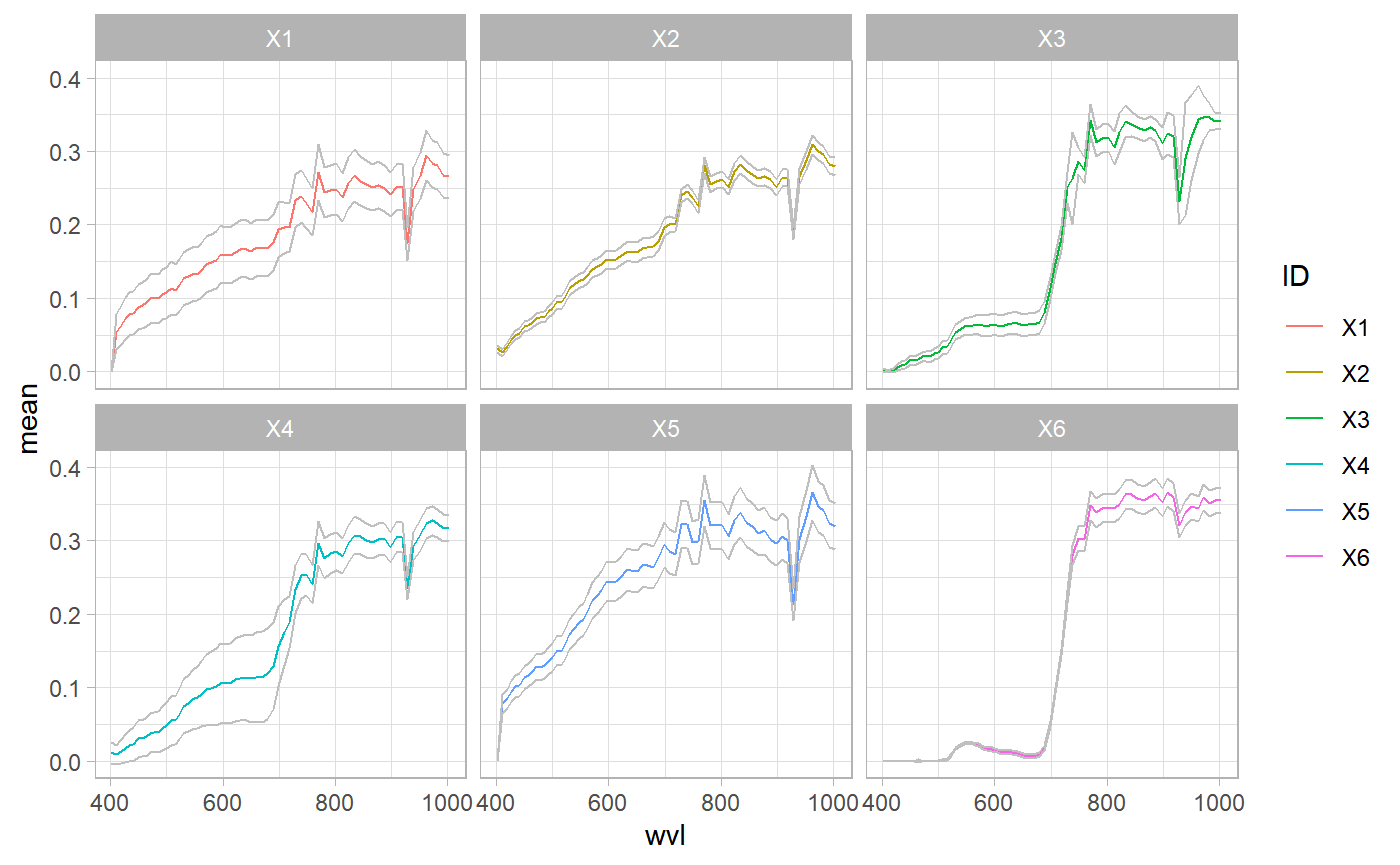
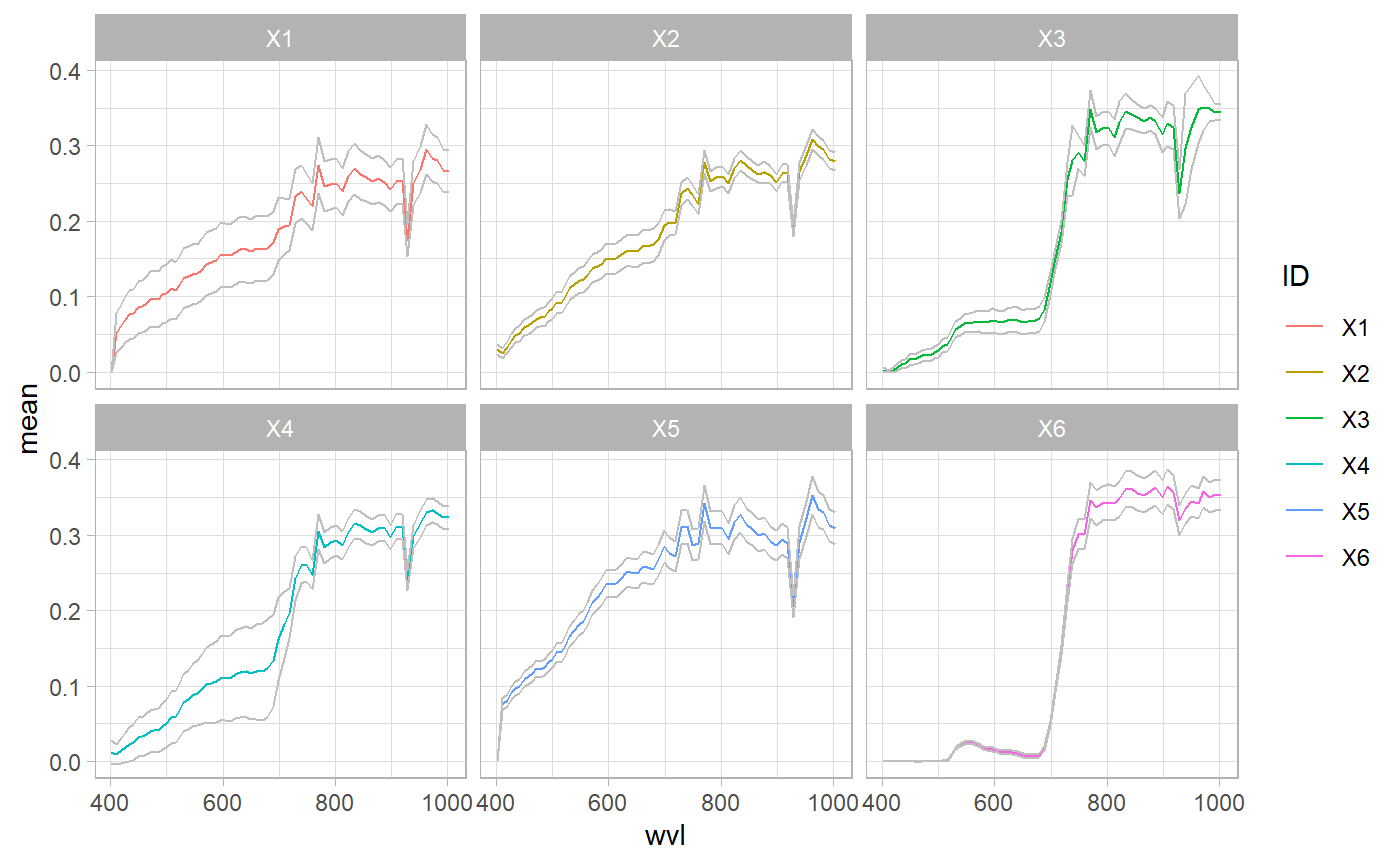
website updfate

diff --git a/docs/articles/Extracting-data-over-vector.html b/docs/articles/Extracting-data-over-vector.html
@@ -123,15 +123,15 @@
 <span class="co">#&gt;      wvl ID       mean  stdev</span>
 <span class="co">#&gt;    &lt;dbl&gt; &lt;chr&gt;   &lt;dbl&gt;  &lt;dbl&gt;</span>
 <span class="co">#&gt;  1  402. poly_1 0      0     </span>
-<span class="co">#&gt;  2  411. poly_1 0.0538 0.0236</span>
-<span class="co">#&gt;  3  419. poly_1 0.0636 0.0267</span>
-<span class="co">#&gt;  4  427. poly_1 0.0724 0.0282</span>
-<span class="co">#&gt;  5  434. poly_1 0.0786 0.0294</span>
-<span class="co">#&gt;  6  441. poly_1 0.0797 0.0296</span>
-<span class="co">#&gt;  7  449. poly_1 0.0880 0.0311</span>
-<span class="co">#&gt;  8  456. poly_1 0.0898 0.0314</span>
-<span class="co">#&gt;  9  464. poly_1 0.0937 0.0322</span>
-<span class="co">#&gt; 10  471. poly_1 0.0995 0.0332</span>
+<span class="co">#&gt;  2  411. poly_1 0.0515 0.0259</span>
+<span class="co">#&gt;  3  419. poly_1 0.0612 0.0290</span>
+<span class="co">#&gt;  4  427. poly_1 0.0698 0.0308</span>
+<span class="co">#&gt;  5  434. poly_1 0.0760 0.0321</span>
+<span class="co">#&gt;  6  441. poly_1 0.0770 0.0324</span>
+<span class="co">#&gt;  7  449. poly_1 0.0854 0.0340</span>
+<span class="co">#&gt;  8  456. poly_1 0.0871 0.0344</span>
+<span class="co">#&gt;  9  464. poly_1 0.0908 0.0353</span>
+<span class="co">#&gt; 10  471. poly_1 0.0966 0.0363</span>
 <span class="co">#&gt; # ... with 386 more rows</span>
   <span class="co"># plot results using ggplot</span>
   <span class="fu"><a href="https://ggplot2.tidyverse.org/reference/ggplot.html">ggplot</a></span>(<span class="no">test</span>, <span class="fu"><a href="https://ggplot2.tidyverse.org/reference/aes.html">aes</a></span>(<span class="kw">x</span> <span class="kw">=</span> <span class="no">wvl</span>, <span class="kw">y</span> <span class="kw">=</span> <span class="no">mean</span>)) +
@@ -147,16 +147,16 @@
 <span class="co">#&gt; # A tibble: 66 x 13</span>
 <span class="co">#&gt;      wvl mean_X1 stdev_X1 mean_X2 stdev_X2 mean_X3 stdev_X3 mean_X4 stdev_X4</span>
 <span class="co">#&gt;    &lt;dbl&gt;   &lt;dbl&gt;    &lt;dbl&gt;   &lt;dbl&gt;    &lt;dbl&gt;   &lt;dbl&gt;    &lt;dbl&gt;   &lt;dbl&gt;    &lt;dbl&gt;</span>
-<span class="co">#&gt;  1  402.  0        0       0.0316  0.00469 1.93e-3  0.00254 0.0114    0.0144</span>
-<span class="co">#&gt;  2  411.  0.0538   0.0236  0.0257  0.00479 4.20e-4  0.00117 0.00866   0.0124</span>
-<span class="co">#&gt;  3  419.  0.0636   0.0267  0.0346  0.00494 1.77e-3  0.00278 0.0130    0.0161</span>
-<span class="co">#&gt;  4  427.  0.0724   0.0282  0.0436  0.00531 5.39e-3  0.00413 0.0170    0.0191</span>
-<span class="co">#&gt;  5  434.  0.0786   0.0294  0.0500  0.00569 8.58e-3  0.00507 0.0208    0.0214</span>
-<span class="co">#&gt;  6  441.  0.0797   0.0296  0.0527  0.00610 9.65e-3  0.00544 0.0232    0.0229</span>
-<span class="co">#&gt;  7  449.  0.0880   0.0311  0.0615  0.00640 1.47e-2  0.00615 0.0305    0.0248</span>
-<span class="co">#&gt;  8  456.  0.0898   0.0314  0.0630  0.00648 1.48e-2  0.00619 0.0311    0.0251</span>
-<span class="co">#&gt;  9  464.  0.0937   0.0322  0.0669  0.00681 1.72e-2  0.00629 0.0336    0.0266</span>
-<span class="co">#&gt; 10  471.  0.0995   0.0332  0.0721  0.00712 2.02e-2  0.00651 0.0381    0.0266</span>
+<span class="co">#&gt;  1  402.  0        0       0.0302  0.00693 2.47e-3  0.00301 0.0125    0.0150</span>
+<span class="co">#&gt;  2  411.  0.0515   0.0259  0.0244  0.00682 6.39e-4  0.00148 0.00961   0.0129</span>
+<span class="co">#&gt;  3  419.  0.0612   0.0290  0.0332  0.00778 2.40e-3  0.00331 0.0141    0.0167</span>
+<span class="co">#&gt;  4  427.  0.0698   0.0308  0.0419  0.00888 6.32e-3  0.00468 0.0183    0.0200</span>
+<span class="co">#&gt;  5  434.  0.0760   0.0321  0.0482  0.00961 9.69e-3  0.00549 0.0224    0.0222</span>
+<span class="co">#&gt;  6  441.  0.0770   0.0324  0.0510  0.0102  1.09e-2  0.00596 0.0248    0.0239</span>
+<span class="co">#&gt;  7  449.  0.0854   0.0340  0.0596  0.0107  1.61e-2  0.00674 0.0323    0.0258</span>
+<span class="co">#&gt;  8  456.  0.0871   0.0344  0.0613  0.0109  1.62e-2  0.00678 0.0330    0.0261</span>
+<span class="co">#&gt;  9  464.  0.0908   0.0353  0.0652  0.0114  1.87e-2  0.00691 0.0363    0.0269</span>
+<span class="co">#&gt; 10  471.  0.0966   0.0363  0.0704  0.0117  2.17e-2  0.00713 0.0401    0.0275</span>
 <span class="co">#&gt; # ... with 56 more rows, and 4 more variables: mean_X5 &lt;dbl&gt;, stdev_X5 &lt;dbl&gt;,</span>
 <span class="co">#&gt; #   mean_X6 &lt;dbl&gt;, stdev_X6 &lt;dbl&gt;</span>
 
@@ -167,18 +167,18 @@
 
   <span class="no">test</span>
 <span class="co">#&gt; # A tibble: 396 x 7</span>
-<span class="co">#&gt;      wvl ID      mean coeffvar  stdev    min   max</span>
-<span class="co">#&gt;    &lt;dbl&gt; &lt;chr&gt;  &lt;dbl&gt;    &lt;dbl&gt;  &lt;dbl&gt;  &lt;dbl&gt; &lt;dbl&gt;</span>
-<span class="co">#&gt;  1  402. X1    0       NaN     0      0      0    </span>
-<span class="co">#&gt;  2  411. X1    0.0538    0.439 0.0236 0.0190 0.164</span>
-<span class="co">#&gt;  3  419. X1    0.0636    0.419 0.0267 0.0263 0.192</span>
-<span class="co">#&gt;  4  427. X1    0.0724    0.390 0.0282 0.0336 0.211</span>
-<span class="co">#&gt;  5  434. X1    0.0786    0.374 0.0294 0.0383 0.223</span>
-<span class="co">#&gt;  6  441. X1    0.0797    0.371 0.0296 0.0383 0.225</span>
-<span class="co">#&gt;  7  449. X1    0.0880    0.353 0.0311 0.0443 0.242</span>
-<span class="co">#&gt;  8  456. X1    0.0898    0.350 0.0314 0.0455 0.244</span>
-<span class="co">#&gt;  9  464. X1    0.0937    0.343 0.0322 0.0484 0.251</span>
-<span class="co">#&gt; 10  471. X1    0.0995    0.333 0.0332 0.0526 0.262</span>
+<span class="co">#&gt;      wvl ID      mean coeffvar  stdev     min   max</span>
+<span class="co">#&gt;    &lt;dbl&gt; &lt;chr&gt;  &lt;dbl&gt;    &lt;dbl&gt;  &lt;dbl&gt;   &lt;dbl&gt; &lt;dbl&gt;</span>
+<span class="co">#&gt;  1  402. X1    0       NaN     0      0       0    </span>
+<span class="co">#&gt;  2  411. X1    0.0515    0.503 0.0259 0.00490 0.164</span>
+<span class="co">#&gt;  3  419. X1    0.0612    0.475 0.0290 0.00599 0.192</span>
+<span class="co">#&gt;  4  427. X1    0.0698    0.442 0.0308 0.0116  0.211</span>
+<span class="co">#&gt;  5  434. X1    0.0760    0.423 0.0321 0.0148  0.223</span>
+<span class="co">#&gt;  6  441. X1    0.0770    0.421 0.0324 0.0131  0.225</span>
+<span class="co">#&gt;  7  449. X1    0.0854    0.399 0.0340 0.0189  0.242</span>
+<span class="co">#&gt;  8  456. X1    0.0871    0.395 0.0344 0.0213  0.244</span>
+<span class="co">#&gt;  9  464. X1    0.0908    0.388 0.0353 0.0220  0.251</span>
+<span class="co">#&gt; 10  471. X1    0.0966    0.376 0.0363 0.0259  0.262</span>
 <span class="co">#&gt; # ... with 386 more rows</span>
 
   <span class="co"># plot results using ggplot</span>
@@ -200,15 +200,15 @@
 <span class="co">#&gt;      wvl ID      mean  stdev quant_5 quant_25 quant_50 quant_75 quant_95</span>
 <span class="co">#&gt;    &lt;dbl&gt; &lt;chr&gt;  &lt;dbl&gt;  &lt;dbl&gt;   &lt;dbl&gt;    &lt;dbl&gt;    &lt;dbl&gt;    &lt;dbl&gt;    &lt;dbl&gt;</span>
 <span class="co">#&gt;  1  402. X1    0      0           NA       NA       NA       NA       NA</span>
-<span class="co">#&gt;  2  411. X1    0.0538 0.0236      NA       NA       NA       NA       NA</span>
-<span class="co">#&gt;  3  419. X1    0.0636 0.0267      NA       NA       NA       NA       NA</span>
-<span class="co">#&gt;  4  427. X1    0.0724 0.0282      NA       NA       NA       NA       NA</span>
-<span class="co">#&gt;  5  434. X1    0.0786 0.0294      NA       NA       NA       NA       NA</span>
-<span class="co">#&gt;  6  441. X1    0.0797 0.0296      NA       NA       NA       NA       NA</span>
-<span class="co">#&gt;  7  449. X1    0.0880 0.0311      NA       NA       NA       NA       NA</span>
-<span class="co">#&gt;  8  456. X1    0.0898 0.0314      NA       NA       NA       NA       NA</span>
-<span class="co">#&gt;  9  464. X1    0.0937 0.0322      NA       NA       NA       NA       NA</span>
-<span class="co">#&gt; 10  471. X1    0.0995 0.0332      NA       NA       NA       NA       NA</span>
+<span class="co">#&gt;  2  411. X1    0.0515 0.0259      NA       NA       NA       NA       NA</span>
+<span class="co">#&gt;  3  419. X1    0.0612 0.0290      NA       NA       NA       NA       NA</span>
+<span class="co">#&gt;  4  427. X1    0.0698 0.0308      NA       NA       NA       NA       NA</span>
+<span class="co">#&gt;  5  434. X1    0.0760 0.0321      NA       NA       NA       NA       NA</span>
+<span class="co">#&gt;  6  441. X1    0.0770 0.0324      NA       NA       NA       NA       NA</span>
+<span class="co">#&gt;  7  449. X1    0.0854 0.0340      NA       NA       NA       NA       NA</span>
+<span class="co">#&gt;  8  456. X1    0.0871 0.0344      NA       NA       NA       NA       NA</span>
+<span class="co">#&gt;  9  464. X1    0.0908 0.0353      NA       NA       NA       NA       NA</span>
+<span class="co">#&gt; 10  471. X1    0.0966 0.0363      NA       NA       NA       NA       NA</span>
 <span class="co">#&gt; # ... with 386 more rows</span>
 
 
@@ -224,33 +224,33 @@
 <span class="co">#&gt;      wvl ID      mean  stdev</span>
 <span class="co">#&gt;    &lt;dbl&gt; &lt;chr&gt;  &lt;dbl&gt;  &lt;dbl&gt;</span>
 <span class="co">#&gt;  1  402. X1    0      0     </span>
-<span class="co">#&gt;  2  411. X1    0.0538 0.0236</span>
-<span class="co">#&gt;  3  419. X1    0.0636 0.0267</span>
-<span class="co">#&gt;  4  427. X1    0.0724 0.0282</span>
-<span class="co">#&gt;  5  434. X1    0.0786 0.0294</span>
-<span class="co">#&gt;  6  441. X1    0.0797 0.0296</span>
-<span class="co">#&gt;  7  449. X1    0.0880 0.0311</span>
-<span class="co">#&gt;  8  456. X1    0.0898 0.0314</span>
-<span class="co">#&gt;  9  464. X1    0.0937 0.0322</span>
-<span class="co">#&gt; 10  471. X1    0.0995 0.0332</span>
+<span class="co">#&gt;  2  411. X1    0.0515 0.0259</span>
+<span class="co">#&gt;  3  419. X1    0.0612 0.0290</span>
+<span class="co">#&gt;  4  427. X1    0.0698 0.0308</span>
+<span class="co">#&gt;  5  434. X1    0.0760 0.0321</span>
+<span class="co">#&gt;  6  441. X1    0.0770 0.0324</span>
+<span class="co">#&gt;  7  449. X1    0.0854 0.0340</span>
+<span class="co">#&gt;  8  456. X1    0.0871 0.0344</span>
+<span class="co">#&gt;  9  464. X1    0.0908 0.0353</span>
+<span class="co">#&gt; 10  471. X1    0.0966 0.0363</span>
 <span class="co">#&gt; # ... with 386 more rows</span>
 
   <span class="co"># pixel values are saved in the "allpix" slot of the output</span>
   <span class="no">test</span>$<span class="no">allpix</span>
-<span class="co">#&gt; # A tibble: 68,508 x 4</span>
+<span class="co">#&gt; # A tibble: 66,528 x 4</span>
 <span class="co">#&gt;    ID      wvl pixel    value</span>
 <span class="co">#&gt;    &lt;chr&gt; &lt;dbl&gt; &lt;chr&gt;    &lt;dbl&gt;</span>
 <span class="co">#&gt;  1 id_1   402. pix_001 0     </span>
-<span class="co">#&gt;  2 id_1   411. pix_001 0.0731</span>
-<span class="co">#&gt;  3 id_1   419. pix_001 0.0823</span>
-<span class="co">#&gt;  4 id_1   427. pix_001 0.0900</span>
-<span class="co">#&gt;  5 id_1   434. pix_001 0.0960</span>
-<span class="co">#&gt;  6 id_1   441. pix_001 0.0977</span>
-<span class="co">#&gt;  7 id_1   449. pix_001 0.106 </span>
-<span class="co">#&gt;  8 id_1   456. pix_001 0.108 </span>
-<span class="co">#&gt;  9 id_1   464. pix_001 0.113 </span>
-<span class="co">#&gt; 10 id_1   471. pix_001 0.120 </span>
-<span class="co">#&gt; # ... with 68,498 more rows</span>
+<span class="co">#&gt;  2 id_1   411. pix_001 0.0542</span>
+<span class="co">#&gt;  3 id_1   419. pix_001 0.0651</span>
+<span class="co">#&gt;  4 id_1   427. pix_001 0.0721</span>
+<span class="co">#&gt;  5 id_1   434. pix_001 0.0785</span>
+<span class="co">#&gt;  6 id_1   441. pix_001 0.0793</span>
+<span class="co">#&gt;  7 id_1   449. pix_001 0.0854</span>
+<span class="co">#&gt;  8 id_1   456. pix_001 0.0890</span>
+<span class="co">#&gt;  9 id_1   464. pix_001 0.0942</span>
+<span class="co">#&gt; 10 id_1   471. pix_001 0.0997</span>
+<span class="co">#&gt; # ... with 66,518 more rows</span>
 
   <span class="fu"><a href="https://ggplot2.tidyverse.org/reference/ggplot.html">ggplot</a></span>(<span class="no">test</span>$<span class="no">allpix</span>, <span class="fu"><a href="https://ggplot2.tidyverse.org/reference/aes.html">aes</a></span>(<span class="kw">x</span> <span class="kw">=</span> <span class="no">wvl</span>)) +
     <span class="fu"><a href="https://ggplot2.tidyverse.org/reference/geom_path.html">geom_line</a></span>(<span class="fu"><a href="https://ggplot2.tidyverse.org/reference/aes.html">aes</a></span>(<span class="kw">y</span> <span class="kw">=</span> <span class="no">value</span>, <span class="kw">group</span> <span class="kw">=</span> <span class="no">pixel</span>, <span class="kw">color</span> <span class="kw">=</span> <span class="no">ID</span>), <span class="kw">lwd</span> <span class="kw">=</span> <span class="fl">0.01</span>)  +
@@ -268,7 +268,7 @@
 
 
       <footer><div class="copyright">
-  <p>Developed by Lorenzo Busetto.</p>
+  <p>Developed by .</p>
 </div>
 
 <div class="pkgdown">

diff --git a/docs/articles/Importing-Level-1-Data.html b/docs/articles/Importing-Level-1-Data.html
@@ -135,7 +135,7 @@
 <div id="associating-acquisition-angles-with-l1-data" class="section level2">
 <h2 class="hasAnchor">
 <a href="#associating-acquisition-angles-with-l1-data" class="anchor"></a>Associating acquisition angles with L1 data</h2>
-<p>PRIMA L1 data unfortunately does not contain information concerning acquisition angles, that is instead available for all L2 datasets. However, if both the L1 and any L2 dataset area available <code>prismaread</code> allows to associate the ANGLES data retrieved from the L2 dataset to the L1 one. To do that, the user has to specify the additional <code>in_L2_file</code> in the call to <code>convert_prisma</code>, such as in:</p>
+<p>PRISMA L1 data unfortunately does not contain information concerning acquisition angles, that is instead available for all L2 datasets. However, if both the L1 and any L2 dataset area available <code>prismaread</code> allows to associate the ANGLES data retrieved from the L2 dataset to the L1 one. To do that, the user has to specify the additional <code>in_L2_file</code> in the call to <code>convert_prisma</code>, such as in:</p>
 <div class="sourceCode" id="cb2"><html><body><pre class="r"><span class="no">in_file</span>    <span class="kw">=</span> <span class="st">"/home/lb/tmp/test/PRS_L1_STD_OFFL_20190825103112_20190825103117_0001.he5"</span>
 <span class="no">in_L2_file</span> <span class="kw">=</span> <span class="st">"/home/lb/tmp/test/PRS_L2B_STD_OFFL_20190825103112_20190825103117_0001.he5"</span>
 <span class="no">out_folder</span> <span class="kw">=</span> <span class="st">"/home/lb/tmp/test/"</span>
@@ -221,7 +221,7 @@
 
 
       <footer><div class="copyright">
-  <p>Developed by Lorenzo Busetto.</p>
+  <p>Developed by .</p>
 </div>
 
 <div class="pkgdown">

diff --git a/docs/index.html b/docs/index.html
@@ -105,6 +105,7 @@
 <!-- badges: start -->
 
 <p>The goal of <code>prismaread</code> is allowing to easily import PRISMA hyperspectral data (<a href="http://www.prisma-i.it/index.php/it/" class="uri">http://www.prisma-i.it/index.php/it/</a>) and convert them to a easier to use format (ENVI or GeoTiff).</p>
+<p><a href="http://www.irea.cnr.it/en/"> <img src="reference/figures/logo_irea.png" height="60" align="left" style="vertical-align:middle;margin:0px 10px"></a></p>
 <p><em><code>prismaread</code> is developed and maintained by Lorenzo Busetto and Luigi Ranghetti, <a href="http://www.irea.cnr.it/en/">Institute of Remote Sensing of Environment</a> - National Research Council - Italy (CNR-IREA)</em></p>
 </div>
 <div id="installation" class="section level1">
@@ -177,12 +178,6 @@
 <li><a href="authors.html">Citing prismaread</a></li>
 </ul>
 </div>
-<div class="developers">
-<h2>Developers</h2>
-<ul class="list-unstyled">
-<li>Lorenzo Busetto <br><small class="roles"> Author, maintainer </small> <a href="https://orcid.org/0000-0001-9634-6038" target="orcid.widget" aria-label="ORCID"><span class="fab fa-orcid orcid" aria-hidden="true"></span></a> </li>
-</ul>
-</div>
 
   <div class="dev-status">
 <h2>Dev status</h2>
@@ -197,7 +192,7 @@
 
 
       <footer><div class="copyright">
-  <p>Developed by Lorenzo Busetto.</p>
+  <p>Developed by .</p>
 </div>
 
 <div class="pkgdown">

diff --git a/docs/authors.html b/docs/authors.html
@@ -157,10 +157,6 @@
     </div>
 
     <ul class="list-unstyled">
-      <li>
-        <p><strong>Lorenzo Busetto</strong>. Author, maintainer. <a href='https://orcid.org/0000-0001-9634-6038' target='orcid.widget' aria-label='ORCID'><span class='fab fa-orcid orcid' aria-hidden='true'></span></a>
-        </p>
-      </li>
     </ul>
 
   </div>
@@ -171,7 +167,7 @@
 
       <footer>
       <div class="copyright">
-  <p>Developed by Lorenzo Busetto.</p>
+  <p>Developed by .</p>
 </div>
 
 <div class="pkgdown">

diff --git a/docs/reference/convert_prisma.html b/docs/reference/convert_prisma.html
@@ -372,7 +372,7 @@ the SWIR data cube. If not NULL, only the bands with wavelengths closest to thes
 
       <footer>
       <div class="copyright">
-  <p>Developed by Lorenzo Busetto.</p>
+  <p>Developed by .</p>
 </div>
 
 <div class="pkgdown">

diff --git a/docs/reference/prisma_create_additional.html b/docs/reference/prisma_create_additional.html
@@ -220,7 +220,7 @@ fields used for bowtie georeferencing are taken from the L2 file instead than fr
 
       <footer>
       <div class="copyright">
-  <p>Developed by Lorenzo Busetto.</p>
+  <p>Developed by .</p>
 </div>
 
 <div class="pkgdown">

diff --git a/docs/reference/prisma_create_angles.html b/docs/reference/prisma_create_angles.html
@@ -220,7 +220,7 @@ fields used for bowtie georeferencing are taken from the L2 file instead than fr
 
       <footer>
       <div class="copyright">
-  <p>Developed by Lorenzo Busetto.</p>
+  <p>Developed by .</p>
 </div>
 
 <div class="pkgdown">

diff --git a/docs/reference/prisma_create_latlon.html b/docs/reference/prisma_create_latlon.html
@@ -220,7 +220,7 @@ fields used for bowtie georeferencing are taken from the L2 file instead than fr
 
       <footer>
       <div class="copyright">
-  <p>Developed by Lorenzo Busetto.</p>
+  <p>Developed by .</p>
 </div>
 
 <div class="pkgdown">

diff --git a/docs/reference/prisma_create_pan.html b/docs/reference/prisma_create_pan.html
@@ -225,7 +225,7 @@ fields used for bowtie georeferencing are taken from the L2 file instead than fr
 
       <footer>
       <div class="copyright">
-  <p>Developed by Lorenzo Busetto.</p>
+  <p>Developed by .</p>
 </div>
 
 <div class="pkgdown">

diff --git a/docs/reference/prisma_create_swir.html b/docs/reference/prisma_create_swir.html
@@ -256,7 +256,7 @@ fields used for bowtie georeferencing are taken from the L2 file instead than fr
 
       <footer>
       <div class="copyright">
-  <p>Developed by Lorenzo Busetto.</p>
+  <p>Developed by .</p>
 </div>
 
 <div class="pkgdown">

diff --git a/docs/reference/prisma_create_vnir.html b/docs/reference/prisma_create_vnir.html
@@ -256,7 +256,7 @@ fields used for bowtie georeferencing are taken from the L2 file instead than fr
 
       <footer>
       <div class="copyright">
-  <p>Developed by Lorenzo Busetto.</p>
+  <p>Developed by .</p>
 </div>
 
 <div class="pkgdown">

diff --git a/docs/reference/prisma_get_geoloc.html b/docs/reference/prisma_get_geoloc.html
@@ -195,7 +195,7 @@ fields used for bowtie georeferencing are taken from the L2 file instead than fr
 
       <footer>
       <div class="copyright">
-  <p>Developed by Lorenzo Busetto.</p>
+  <p>Developed by .</p>
 </div>
 
 <div class="pkgdown">
